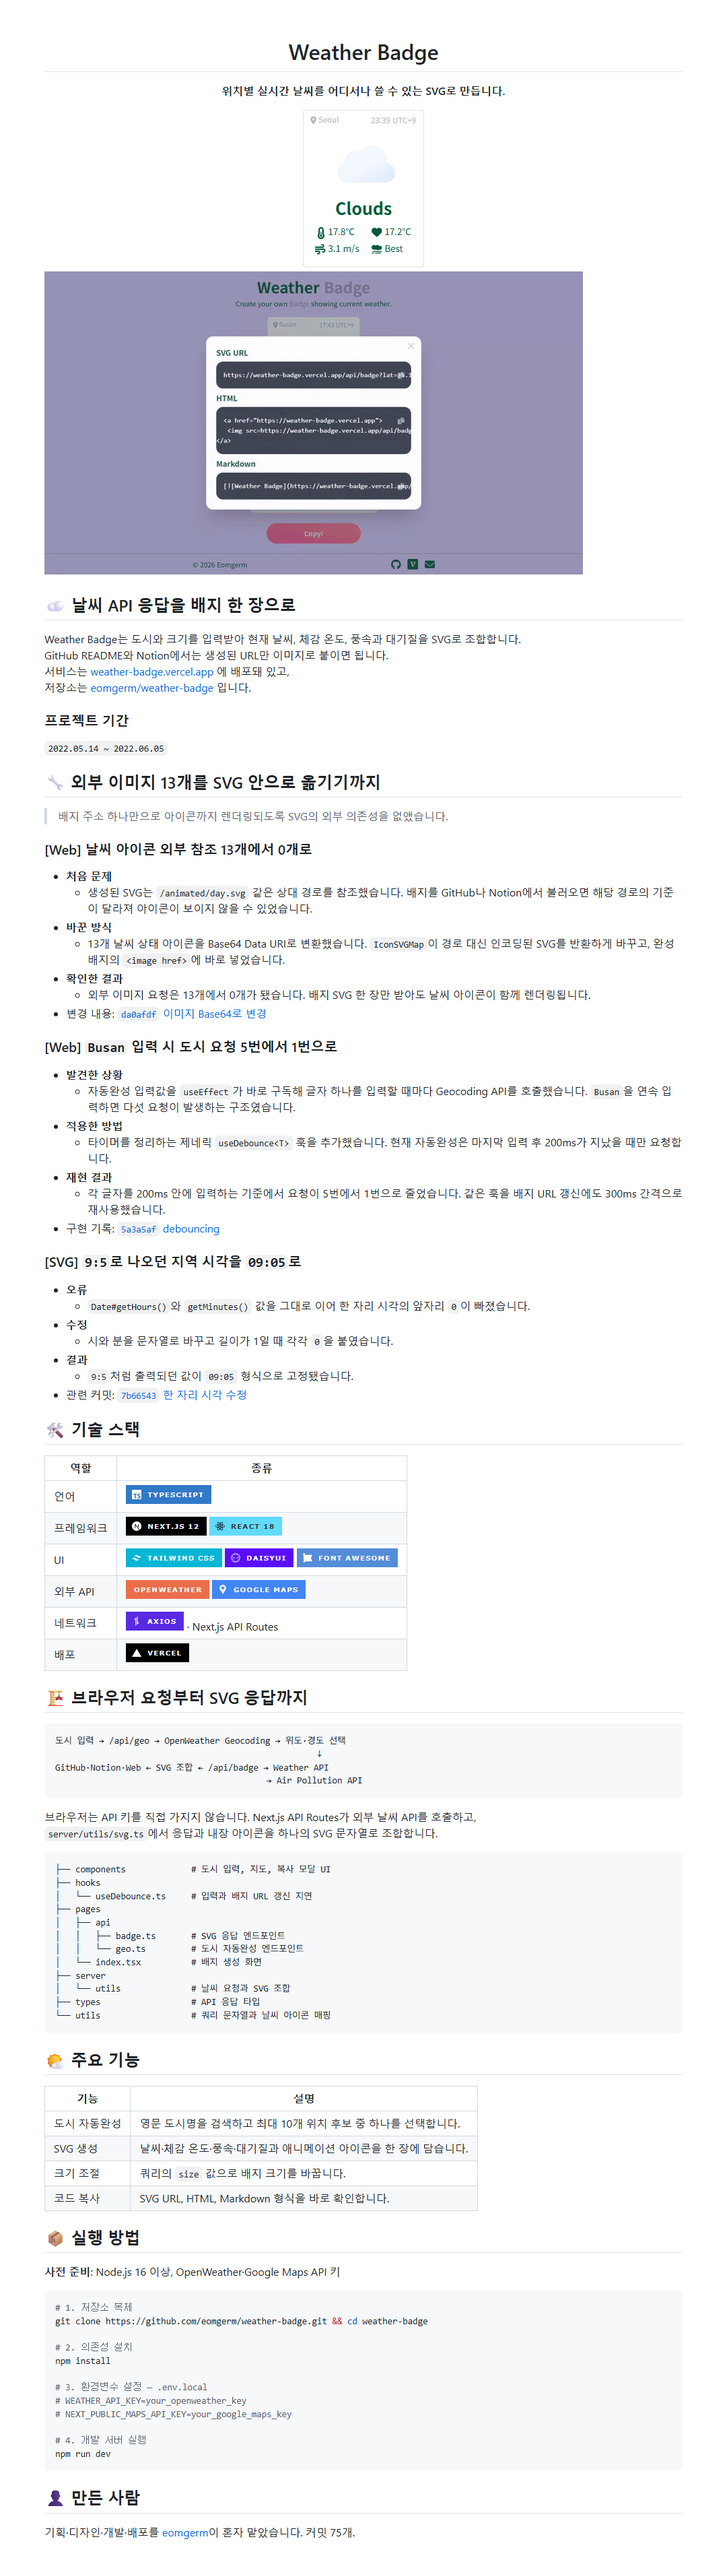
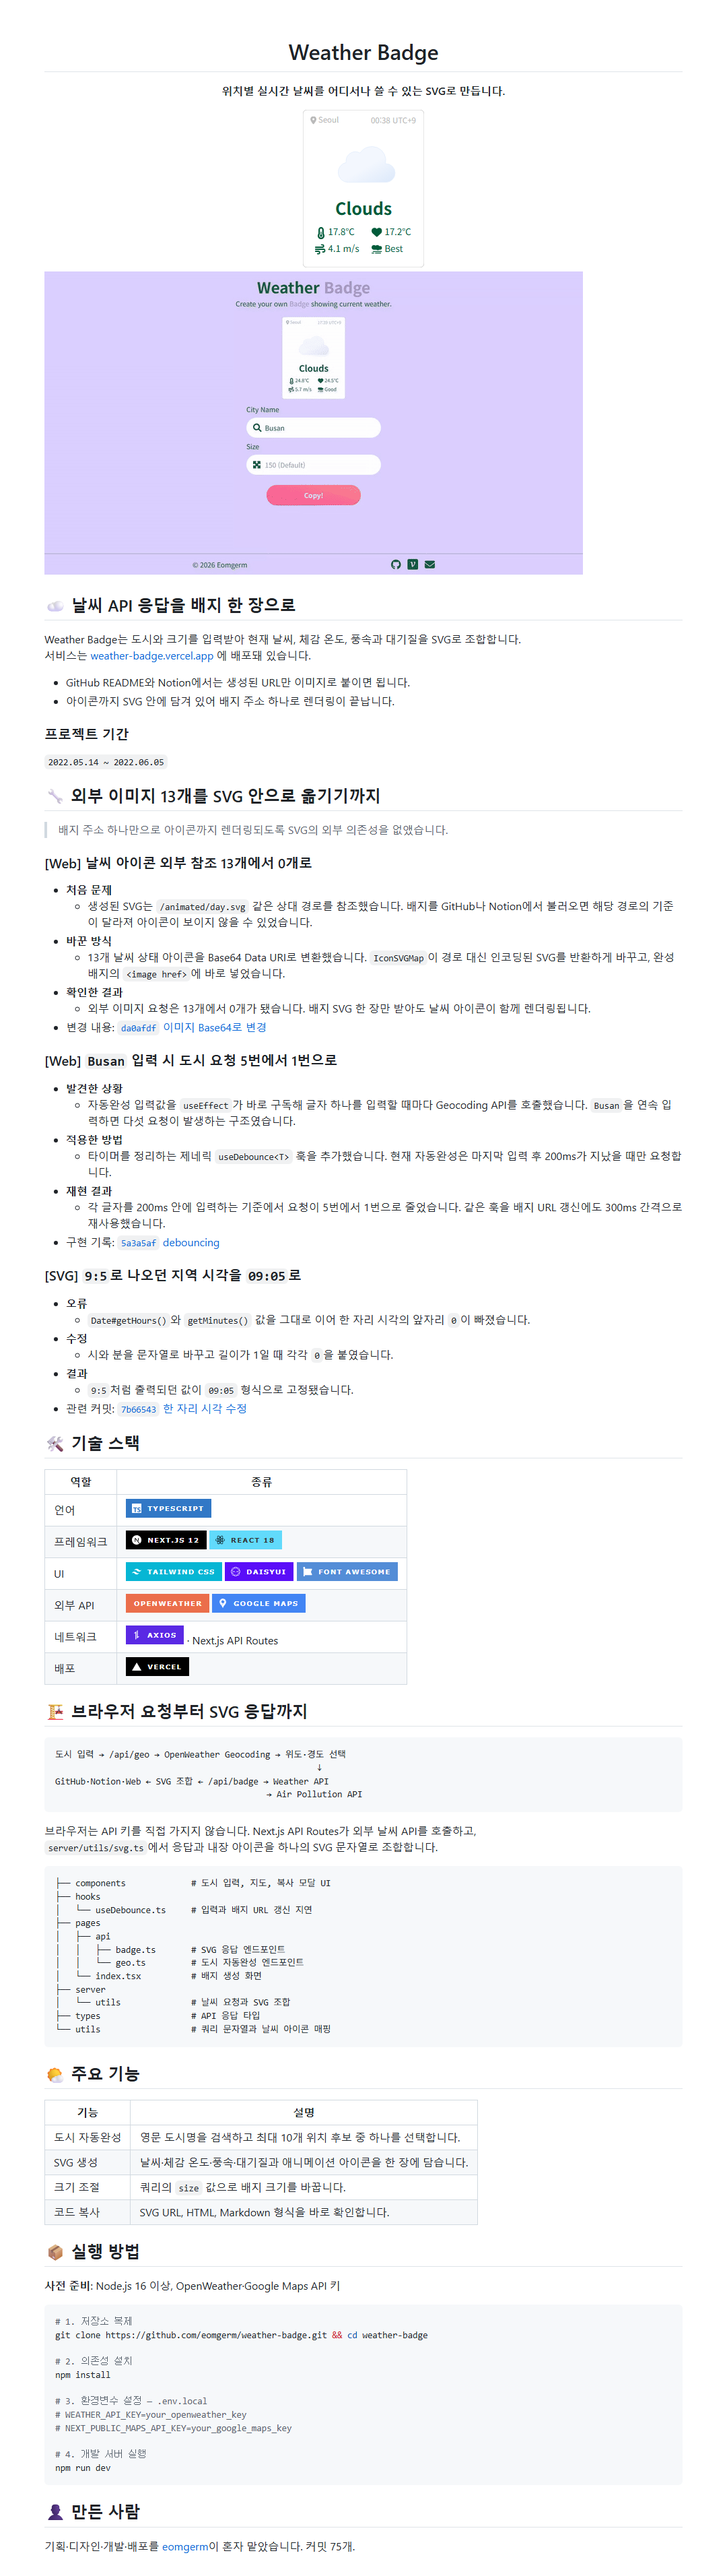
fix: 감사 3회차 5건을 고친다
뱃지 slug 50개 전수 재검증(오류 0)과 예제 규칙 위반 검사를 포함한
회차다.

Keep을 막던 것
- "로고가 안 붙으면 정확히 434바이트"가 틀렸다. 434는 라벨이 T 하나일
  때의 값이고 실제로는 AWS 441, Slack 447, Zustand 453, style 생략은
  993바이트다. 크기로 판정하면 생략형 뱃지에서 로고 없는 slug를 있다고
  오판한다 — badges.md가 스스로 경고한 그 실패를 검사 절차가 통과시켰다.
  판정을 `grep -c '<image'` 하나로 바꿨다

스킬이 자기 규칙을 어긴 곳 2건
- structure.md의 위키 요약형 템플릿이 `### ✨`를 하드코딩했다. SKILL.md는
  `🚀✨💡`를 AI 티의 원인으로 지목하고 도메인 이모지를 필수로 규정한다
- 같은 템플릿의 `[🔗 위키 문서]`는 본문 이모지다. "헤딩에만 1개" 위반

사실 정정 1건
- "본문 이모지 0"은 tone-samples.md 발췌 자체가 반증한다(캐치프레이즈 🚀,
  컨벤션 체크표시 ✅). "거의 이 모양, 예외는 캐치프레이즈와 체크표시"로
  고쳤다

예제 1건
- 부트캠프 예제의 서비스 소개가 산문뿐이어서 "불릿 2~5개" 규정을 벗어났다.
  특징 2개를 불릿로 떼고 스크린샷을 다시 촬영했다

diff --git a/skills/k-readme/references/badges.md b/skills/k-readme/references/badges.md
@@ -115,8 +115,9 @@ Kotlin은 서버 표에 있다. 안드로이드 라이브러리는 로고가 없
 
 1. **뱃지 URL을 직접 열어 로고가 붙는지 확인한다.** slug는 브랜드명을 소문자로 붙이고
    `.`을 `dot`으로 바꾼 형태다 (`Socket.io` → `socketdotio`, `Vue.js` → `vuedotjs`).
-   로고가 붙은 응답은 SVG 안에 `<image>`가 들어 있고 크기는 1~9KB로 편차가 크다.
-   안 붙으면 정확히 434바이트다.
+   판정은 `curl -s "{뱃지 URL}" | grep -c '<image'` 로 한다 — `1`이면 붙었고 `0`이면 안 붙었다.
+   **응답 크기로 판정하지 않는다.** 로고 없는 뱃지도 라벨 길이와 `style`에 따라 433~998바이트로
+   변한다 (`for-the-badge` 433~480, `style` 생략 950~998).
 2. 붙으면 쓰고, **안 붙거나 확인이 번거로우면 `logo`와 `logoColor`를 빼고 색만 넣는다.**
    실측 185개 중 51개(28%)가 이 방식이다. 추측한 slug는 오류를 내지 않고 조용히
    로고 없는 뱃지로 렌더되기 때문에 커밋 전에 잡히지 않는다.
@@ -124,7 +125,7 @@ Kotlin은 서버 표에 있다. 안드로이드 라이브러리는 로고가 없
 
 **AWS·Amazon 계열과 Slack은 shields.io가 로고를 렌더하지 않는다.** simple-icons 패키지에는
 파일이 있지만 `logo=amazonaws`, `logo=amazonwebservices`, `logo=slack` 은 오류 없이 무시된다
-(응답이 434바이트로 로고 없는 뱃지와 같다). 이 셋은 반드시 색만 쓴다.
+(응답이 로고 없는 뱃지와 바이트 단위로 동일하다). 이 셋은 반드시 색만 쓴다.
 
 ## 배치
 

diff --git a/examples/README.bootcamp.md b/examples/README.bootcamp.md
@@ -11,9 +11,10 @@
 ## ☁ 날씨 API 응답을 배지 한 장으로
 
 Weather Badge는 도시와 크기를 입력받아 현재 날씨, 체감 온도, 풍속과 대기질을 SVG로 조합합니다.
-GitHub README와 Notion에서는 생성된 URL만 이미지로 붙이면 됩니다.
-서비스는 [weather-badge.vercel.app](https://weather-badge.vercel.app/) 에 배포돼 있고,
-저장소는 [eomgerm/weather-badge](https://github.com/eomgerm/weather-badge) 입니다.
+서비스는 [weather-badge.vercel.app](https://weather-badge.vercel.app/) 에 배포돼 있습니다.
+
+- GitHub README와 Notion에서는 생성된 URL만 이미지로 붙이면 됩니다.
+- 아이콘까지 SVG 안에 담겨 있어 배지 주소 하나로 렌더링이 끝납니다.
 
 ### 프로젝트 기간
 

diff --git a/skills/k-readme/references/structure.md b/skills/k-readme/references/structure.md
@@ -130,11 +130,11 @@
 전체를 위키로 넘긴다. 위키가 이미 있을 때만 쓴다.
 
 ```markdown
-### ✨ {기능 이름}
+### {도메인 이모지} {기능 이름}
 
 {어떤 걱정을 마주했고 무엇을 결정했는지 한 단락. 마지막을 질문으로 끝낸다}
 
-→ [🔗 {위키 문서 제목}]({위키 URL})
+→ [{위키 문서 제목}]({위키 URL})
 ```
 
 ### F1 핵심 기능
